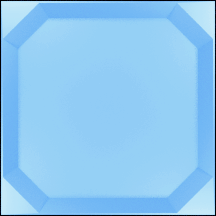
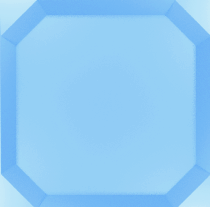
Background color changed

diff --git a/UI.py b/UI.py
@@ -5,14 +5,14 @@ from kivy.uix.image import Image
 from kivy.uix.gridlayout import GridLayout
 from kivy.uix.togglebutton import ToggleButton
 from kivy.uix.boxlayout import BoxLayout
+from kivy.core.window import Window
 
+Window.clearcolor = (0.66, 0.87, 0.96, 0)
 
 flagmode = False
 
 def changemode():
-
     global flagmode
-
     flagmode=not flagmode
 
 class Tile (ToggleButtonBehavior, Image):
@@ -32,16 +32,13 @@ class Tile (ToggleButtonBehavior, Image):
             self.source = 'MINESWEEPER_0.png'
 
 class StateButton (ToggleButtonBehavior, Image):
-
     def __init__(self):
         super().__init__()
         self.source = 'MINESWEEPER_0.png'
         self.allow_stretch = True
         self.size = (90, 50)
         self.size_hint = (None, None)
-        self.pos_hint = {'center_y':0.5}
-        
-    
+        self.pos_hint = {'center_y':0.5}           
     def on_state (self, widget, value):
         if value=='down':
             self.source = 'MINESWEEPER_F.png'
@@ -50,25 +47,18 @@ class StateButton (ToggleButtonBehavior, Image):
             changemode()
             self.source = 'MINESWEEPER_0.png' 
 
-
 class MinesweeperApp(App):
-
     icon='Minesweeper_icon.png'
-
     def build(self):
-
-        layout = BoxLayout(orientation='horizontal', spacing = 10)
-
-        playfield = GridLayout(rows=8, size_hint=(0.8, 1))
+        layout = BoxLayout(orientation='horizontal', spacing = 10, padding=10)
+        playfield = GridLayout(rows=8, size_hint=(0.8, 1))        
         for a in range (64):
-            playfield.add_widget(Tile())
-        
+            playfield.add_widget(Tile())        
         btmode = StateButton()
         layout.add_widget(playfield)
         layout.add_widget(btmode)
 
         return layout
-
 
 if __name__ == '__main__':
     MinesweeperApp().run()
